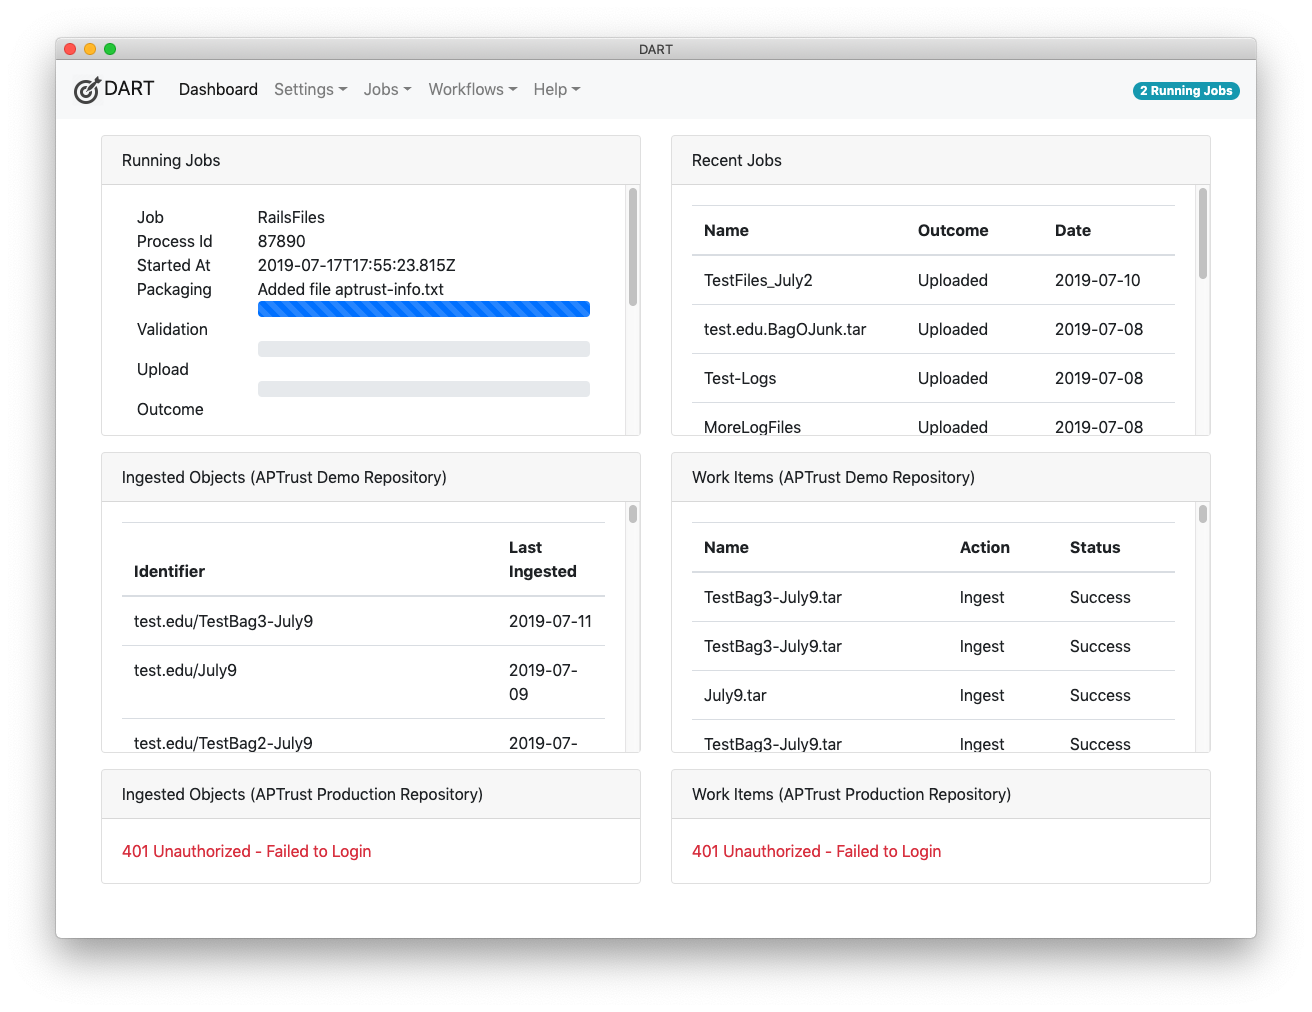
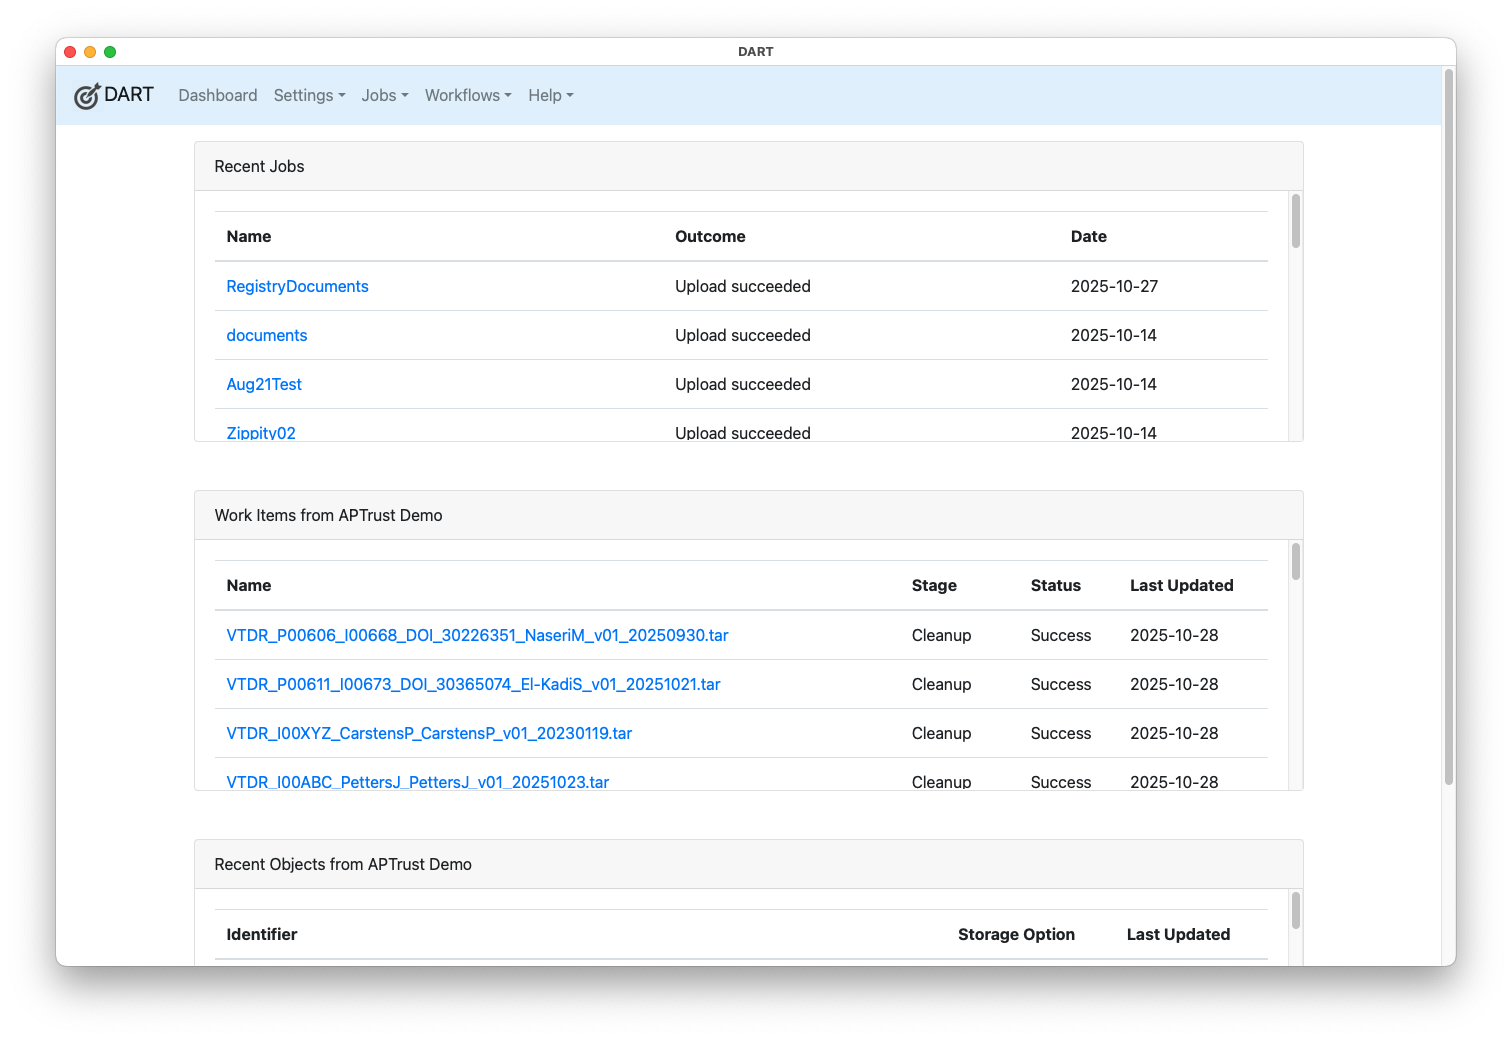
Added DART 3 updates for dashboard, downloads, logs and workflows

diff --git a/docs/dart3/users/dashboard.md b/docs/dart3/users/dashboard.md
@@ -4,30 +4,6 @@ The dashboard shows running jobs, recently completed jobs, and selected items fr
 
 ![Dashboard](../img/dashboard/dashboard.png)
 
-## Running Jobs
-
-The Running Jobs panel shows jobs DART is currently running on your computer. If more than one job is currently running, you can scroll inside the panel to see the progress of each. Also note the blue badge in the upper right corner of the window showing there are two running jobs. The blue badge appears on all DART views as long as jobs are running.
-
-Note that DART runs each job in a separate process. Actions you take in DART do not affect the running jobs.
-
-!!! warning
-    When you shut down the DART application, all DART jobs stop, even if they
-    are not yet complete. Don't close the DART window while jobs are running,
-    unless you intend to stop all of the jobs.
-
-### Progress Bars for Running Jobs
-
-The progress bars for running jobs show how much progress DART has made in each of the job's steps, which may include packaging, validation, and/or uploading.
-
-!!! info
-    While the progress bars for packaging and validation are very accurate, the
-    progress bar for uploads runs slightly ahead of the actual upload progress.
-    DART knows how many bytes of an upload it has prepared to send, but not how
-    many have been received by the remote host. It's common for the upload
-    progress bar to appear to stall at about 98% while the last chunk of data
-    goes across the wire. For smaller uploads, the stall may last only a second
-    or two. For very large uploads, the final chunk may be hundreds of megabytes
-    and may take several minutes to complete.
 
 ## Recent Jobs
 
@@ -51,8 +27,9 @@ The panels show errors if they cannot communicate with the remote repository. If
 
 !!! info
     Remote repository panels require both a correctly configured Remote Repository
-    setting and a plugin that knows how to communicate with the remote repository.
-    Plugins are typically written by developers associated with the repository,
-    and are packaged with the DART installation.
+    setting and DART code that knows how to communicate with the remote repository.
+    Currently, DART supports only APTrust repositories. Developers may contribute
+    custom code for other repositories that have a REST API. The DART code repository
+    is public and open source. It's located at https://github.com/APTrust/dart.
 
 See also: [Remote Repository](settings/remote_repositories.md)

diff --git a/docs/dart3/users/workflows/index.md b/docs/dart3/users/workflows/index.md
@@ -2,15 +2,11 @@
 
 A workflow is a set of packaging, validation, and/or upload operations that you define as a template to be run on any sets of files you choose.
 
-Workflows ensure that the exact same set of steps is run on each set of files. DART can run workflows from the UI and from the command line, which means you can create scripts that use workflows to package and upload materials.
+Workflows ensure that the exact same set of steps is run on each set of files. DART can run workflows from the UI, or you can export them and run them from the command line using DART Runner, which means you can create scripts that use workflows to package and upload materials.
 
-!!! note
-    DART won't run on servers that don't have graphics because DART's
-    underlying Electron framework insists on graphics capabilities
-    even when running in command-line mode.
+DART Runner can run unattended on servers using DART workflows to bag and export huge sets of files that may take too long to run on an individual's laptop or desktop. For example, it's common to create a workflow in DART, then run that workflow to package and upload thousands of bags. The following paragraphs describe how to create and export workflows. For information on running workflows in DART Runner, see the [DART Runner page](../../../runner/index.md).
 
-    DART Runner **does** run on servers. For more info, see
-    the [DART Runner page](../../../runner/index.md).
+For information on creating and uploading batches of bags directly in DART, see [Batch Jobs](./batch_jobs.md).
 
 ## Defining a Workflow
 

diff --git a/docs/dart3/users/settings/remote_repositories.md b/docs/dart3/users/settings/remote_repositories.md
@@ -7,7 +7,7 @@ Remote repositories are services to which you upload data for preservation. DART
 * You have a Remote Repository setting that points to the correct URL and contains valid login credentials.
 
 !!! note
-    While DART 2 included a JavaScript plugin system that allowed users to write their own Remote Repository adapters, DART 3 does not have a plugin system. We simply did not see many (any?) users writing plugins for DART 2, so we omitted the plugin system from DART 3. Users can fork the DART 3 repository and write their own Remote Repository clients in Go.
+    While DART 2 included a JavaScript plugin system that allowed users to write their own Remote Repository adapters, DART 3 does not have a plugin system. We simply did not see many (any?) users writing plugins for DART 2, so we omitted the plugin system from DART 3. Users can contribute code to the DART 3 repository and write their own Remote Repository clients in Go. DART's public, open source code repository is located at https://github.com/APTrust/dart.
 
 ## Listing Remote Repositories
 

diff --git a/docs/dart3/users/logs.md b/docs/dart3/users/logs.md
@@ -2,8 +2,10 @@
 
 DART logs most of its activities as it works. If you're looking for detailed infomation about what DART is doing or has done, or if you want to see detailed error messages, check the logs.
 
-The easiest way to view the DART log is to click <b>Help &gt; Logs</b> from the menu. This will display a live log window that shows updates as they are written.
+The easiest way to view the DART log is to click <b>Help &gt; Open Log File</b> from the menu. This will display a live log window that shows updates as they are written. You'll likely need to scroll down to the bottom of the window to see the most recent updates.
 
 ![DART log window](../img/logs/log_window.png)
 
-The About dialog will show the location of the DART log file.
+When the DART log reaches about 10 megabytes in size, DART creates a new log file. Clicking <b>Help &gt; Open Log Folder</b> will open a file browser showing both the current and older log files.
+
+Clicking <b>Help &gt; About</b> also shows the location of DART's log files.

diff --git a/docs/dart3/shared/downloads.md b/docs/dart3/shared/downloads.md
@@ -1,4 +1,4 @@
-_Updated March 14, 2023_
+_Updated Oct 28, 2025_
 
 Download the DART 3 installer for your system. The current version is alpha-03 (released June 6, 2025).
 
